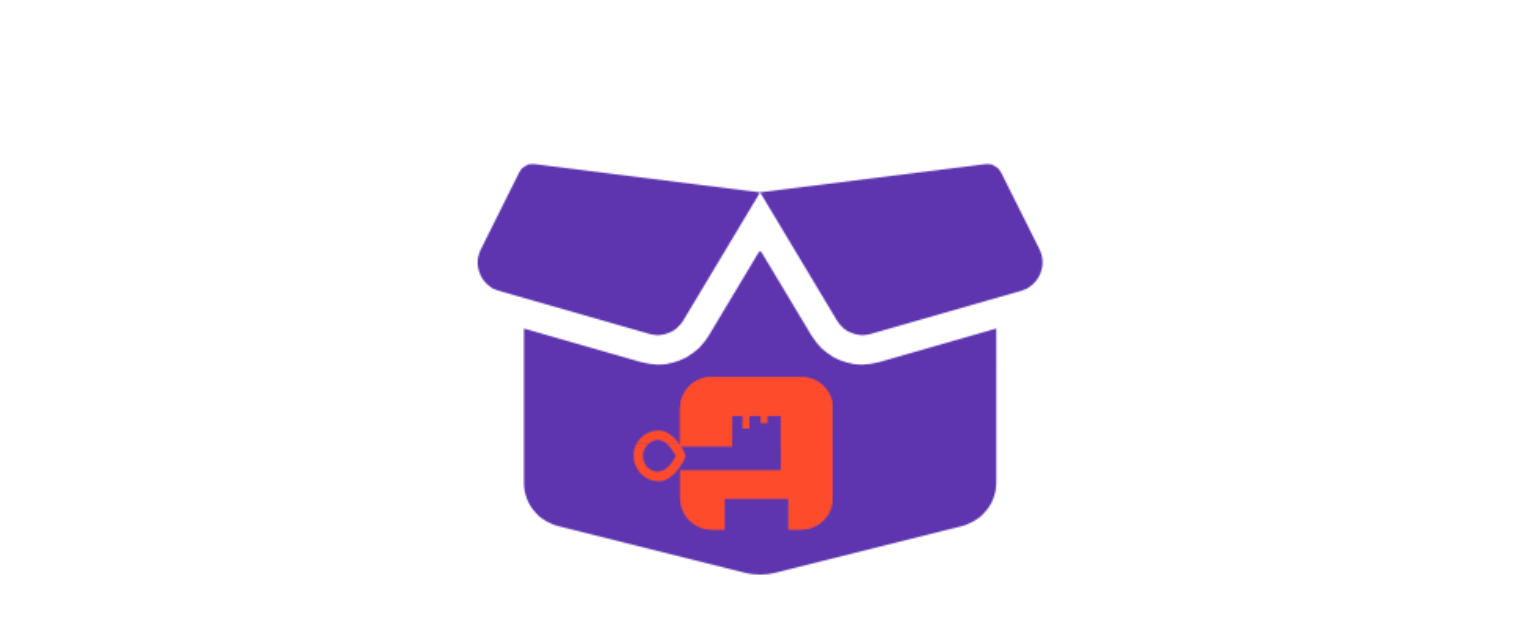
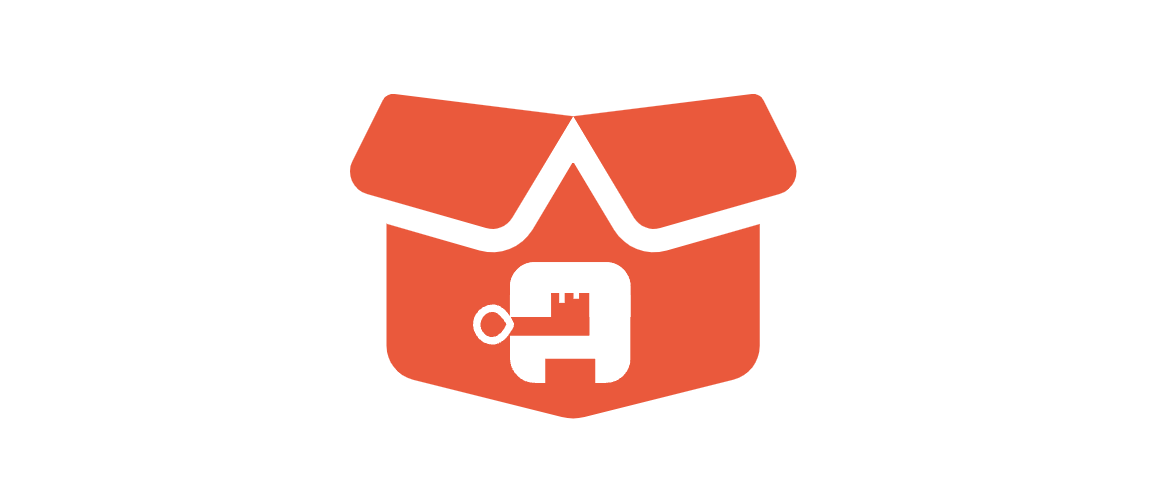
changed colours on image, tweaks

Changed region(s): [[0.2793, 0.1786, 0.7138, 0.9226]]

diff --git a/website/blog/2024-1-31-dont-hardcode-your-secrets/item.md b/website/blog/2024-1-31-dont-hardcode-your-secrets/item.md
@@ -71,9 +71,10 @@ For better or worse, Helm is widely used in the industry. It definitely has some
 
 This is something to watch out for both as a _user_ of Helm charts (if you’re installing services for your company), as well as a *provider*  (if you offer a Helm chart for customers). The manifests that you apply to Kubernetes are, as you know, YAML files. Helm, being a templating tool, enables you to template out YAML from whatever data you provide at the time you install the Helm charts.
 
-By default, any data, any variable that you have hardcoded in the template, is impossible to override later, so things can get messy quick..
+By default, any data, any variable that you have hardcoded in the template, is impossible to override later, so things can get messy quick...
 
-[![](./HN-quote.png)](https://news.ycombinator.com/item?id=39102395)
+[![Quote: "Your config becoming more and more complex until it inevitably needs its own config, etc. You wind up with a sprawling, Byzantine mess."
+We're already there with Helm. People write YAML because it's "just data". Then they want to package it up so they put it in a helm chart. Then they add variable substitution so that the name of resources can be configured by the chart user. Then they want to do some control flow or repetitiveness, so they use ifs and loops in templates. Then it needs configuring, so they add a values.yaml configuration file to configure the YAML templating engine's behaviour. Then it gets complicated so they define helper functions in the templating language, which are saved in another template file. So we have a YAML program being configured by a YAML configuration file, with functions written in a limited templating language. But that's sometimes not enough, so sometimes variables are also defined in the values.yaml and referenced elsewhere in the values.yaml with templating. This then gets passed to the templating system, which then evaluates that template-within-a-template, to produce YAML.](./HN-quote.png)](https://news.ycombinator.com/item?id=39102395)
 
 If you want to modify the manifests generated by the Helm chart templates, there’s no integrated way to do that in Helm, so you need to use [Kustomize](https://kustomize.io/) to override what has been generated from the Helm chart. You can also fork the Helm chart and modify the templates directly, but this is a cumbersome workaround and occasionally you might find licensing restrictions associated with doing this.
 
